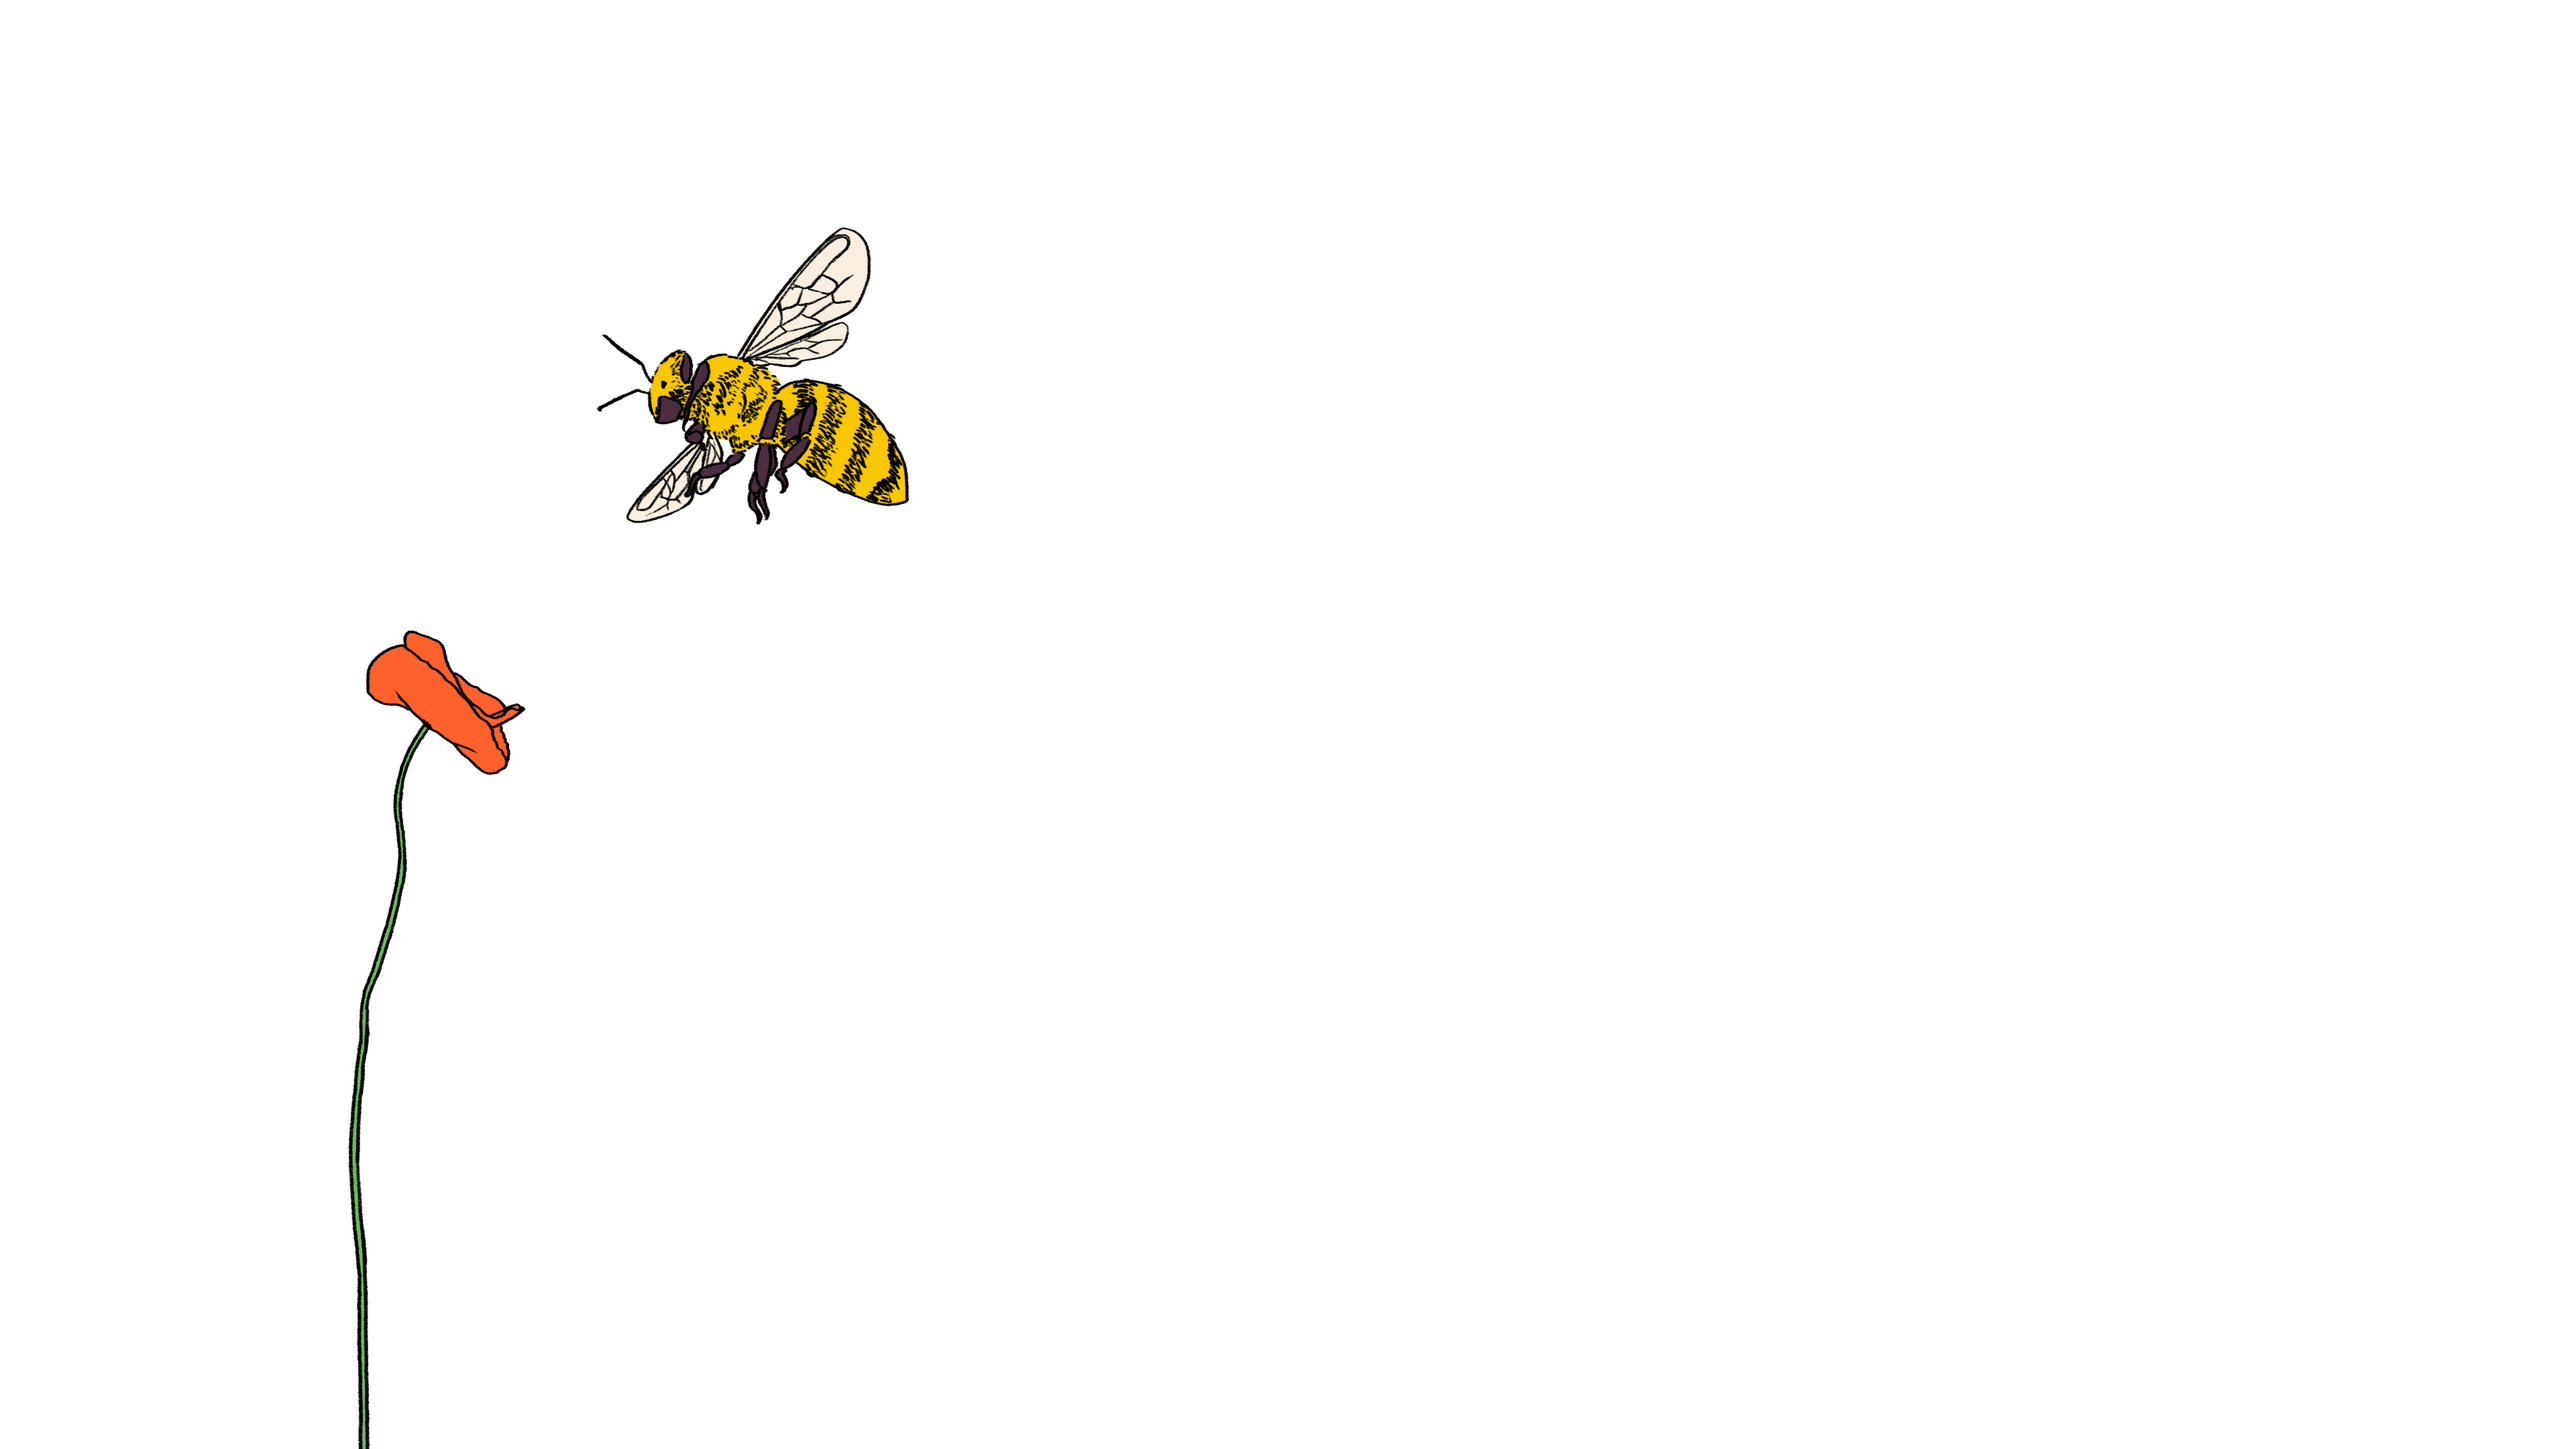
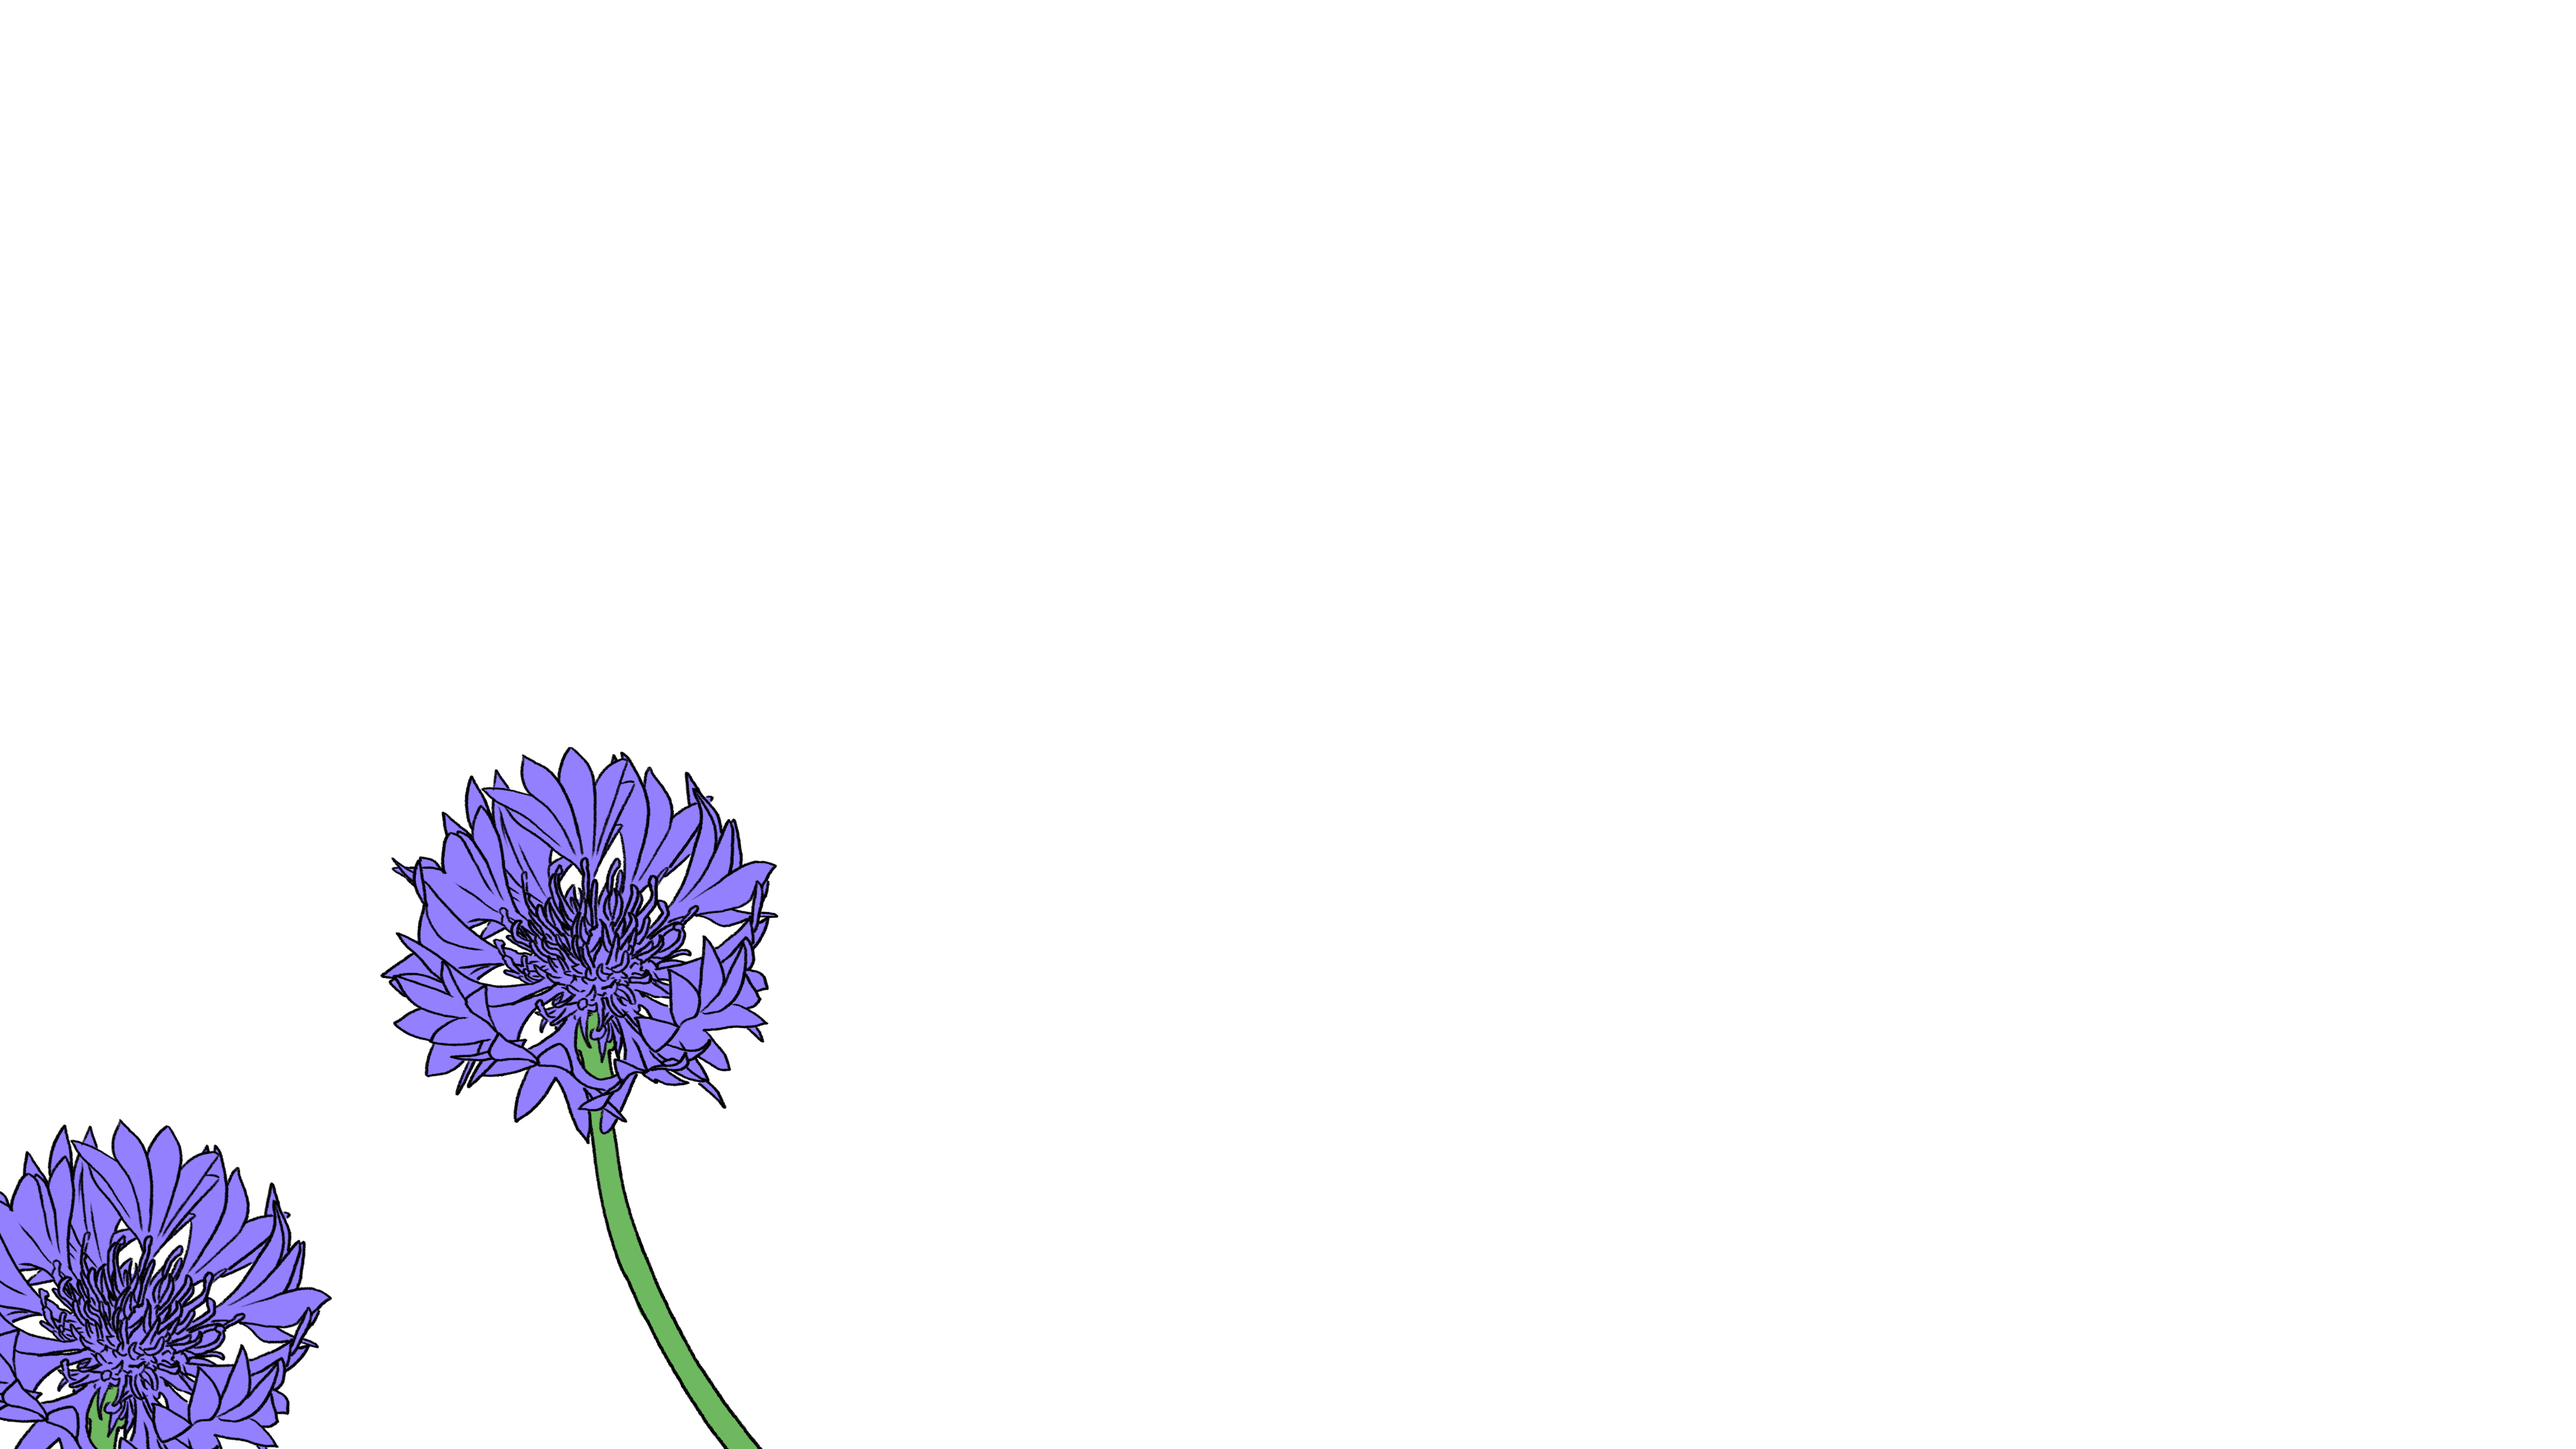
parralax effect detailpage

Changed region(s): [[0.0, 0.4343, 0.3125, 1.0], [0.2188, 0.1551, 0.375, 0.3722]]

diff --git a/src/script.js b/src/script.js
@@ -19,58 +19,125 @@ const scene = new THREE.Scene()
 // Objects
 
 // Materials
+const baseSizeWidth = 10;
+const baseSizeHeight = 5;
+
+const swtichDistance = number => {
+    let multiply;
+    switch (number) {
+        case 0:
+            multiply = 99;
+            break;
+        case 1:
+            multiply = 74;
+            break;
+        case 2:
+            multiply = 34;
+            break;
+        case 3:
+            multiply = 18;
+            break;
+        case 4:
+            multiply = 6;
+            break;
+        default:
+            break;
+    }
+    return multiply;
+}
+
+const swtichDistanceTree = number => {
+    let multiply;
+    switch (number) {
+        case 0:
+            multiply = 99;
+            break;
+        case 1:
+            multiply = 74;
+            break;
+        case 2:
+            multiply = 34;
+            break;
+        case 3:
+            multiply = 20;
+            break;
+        case 4:
+            multiply = 14;
+            break;
+        case 5:
+            multiply = 8;
+            break;
+        default:
+            break;
+    }
+    return multiply;
+}
+
+const backgroundTexture = new THREE.MeshBasicMaterial({
+    map: textureLoader.load(`/detailpage/clouds.png`),
+    transparent: true
+});
+const shapeBackground = new THREE.PlaneGeometry(200, 120);
+const meshBackground = new THREE.Mesh(shapeBackground, backgroundTexture);
+meshBackground.position.z = -60;
+meshBackground.position.y = 5;
+scene.add(meshBackground);
+
+const beekeeperTexture = new THREE.MeshBasicMaterial({
+    map: textureLoader.load(`/detailpage/beekeper.png`),
+    transparent: true
+});
+const shapeBeekeeper = new THREE.PlaneGeometry(10, 5);
+const meshBeekeeper = new THREE.Mesh(shapeBeekeeper, beekeeperTexture);
+meshBeekeeper.position.z = 2;
+meshBeekeeper.position.y = 0;
+scene.add(meshBeekeeper);
+
 
 const treeTextures = [];
-for (let i = 1; i < 7; i++) {
+for (let i = 0; i < 6; i++) {
     treeTextures[i]= new THREE.MeshBasicMaterial({
         map: textureLoader.load(`/detailpage/tree_${i}.png`),
         transparent: true
     });
+    let shapeTree;
+    let bruh = 24;
+    let bruh2 = 12;
+
+    if (i === 0) {
+        console.log(`dit werkt`);
+        shapeTree = new THREE.PlaneGeometry(bruh * (parseFloat(`1.${swtichDistanceTree(i)*1}`)), bruh2 * (parseFloat(`1.${swtichDistanceTree(i)*1}`)));
+    } else {
+        shapeTree = new THREE.PlaneGeometry(bruh * (parseFloat(`1.${swtichDistanceTree(i)*i}`)), bruh2 * (parseFloat(`1.${swtichDistanceTree(i)*i}`)));
+    }
+    console.log();
+    const meshTree = new THREE.Mesh(shapeTree, treeTextures[i]);
+    meshTree.position.y = window.innerWidth/9000;
+    meshTree.position.x = (window.innerWidth/9000);    
+    meshTree.position.z = -10+ i;
+    // parseFloat(`0.${i}`)
+    scene.add(meshTree);
 }
 
-console.log(treeTextures);
-
-const material = new THREE.MeshBasicMaterial({
-    map: textureLoader.load('/detailpagetest/background.png'),
-    transparent: true,
-    side: THREE.DoubleSide
-});
-
-const materialTwo = new THREE.MeshBasicMaterial({
-    map: textureLoader.load('/detailpagetest/bij.png'),
-    transparent: true,
-    side: THREE.DoubleSide
-});
-
-const materialImker = new THREE.MeshBasicMaterial({
-    map: textureLoader.load('/detailpagetest/imker.png'),
-    transparent: true,
-    side: THREE.DoubleSide
-});
-
-const materialMadeliefje = new THREE.MeshBasicMaterial({
-    map: textureLoader.load('/detailpagetest/madeliefje.png'),
-    transparent: true,
-    side: THREE.DoubleSide
-});
-
-const materialPaardenbloem = new THREE.MeshBasicMaterial({
-    map: textureLoader.load('/detailpagetest/paardenbloem.png'),
-    transparent: true,
-    side: THREE.DoubleSide
-});
-
-const materialPaardenbloemjong = new THREE.MeshBasicMaterial({
-    map: textureLoader.load('/detailpagetest/paardenbloemjong.png'),
-    transparent: true,
-    side: THREE.DoubleSide
-});
-
-const materialTree = new THREE.MeshBasicMaterial({
-    map: textureLoader.load('/detailpagetest/tree.png'),
-    transparent: true,
-    side: THREE.DoubleSide
-});
+const flowerTextures = [];
+for (let i = 0; i < 6; i++) {
+    flowerTextures[i]= new THREE.MeshBasicMaterial({
+        map: textureLoader.load(`/detailpage/flower_${i}.png`),
+        transparent: true
+    });
+    let shapeFlower;
+    if (i === 5) {
+        shapeFlower = new THREE.PlaneGeometry(baseSizeWidth, baseSizeHeight);
+    } else if (i === 0) {
+        shapeFlower = new THREE.PlaneGeometry(baseSizeWidth * (parseFloat(`1.${swtichDistance(i)*1}`)), baseSizeHeight * (parseFloat(`1.${swtichDistance(i)*1}`)));
+    } else {
+        shapeFlower = new THREE.PlaneGeometry(baseSizeWidth * (parseFloat(`1.${swtichDistance(i)*i}`)), baseSizeHeight * (parseFloat(`1.${swtichDistance(i)*i}`)));
+    }
+    const meshFlower = new THREE.Mesh(shapeFlower, flowerTextures[i]);
+    meshFlower.position.z = -3+ i;
+    meshFlower.position.x =-(window.innerWidth/3000);
+    scene.add(meshFlower);
+}
 
 const materialCloud = new THREE.MeshBasicMaterial({
     map: textureLoader.load('/cloud.jpg'),
@@ -78,66 +145,16 @@ const materialCloud = new THREE.MeshBasicMaterial({
     side: THREE.DoubleSide
 });
 
-const wait = async() => {
-    console.log(materialTree.map.repeat.set(1,1));  
-    console.log(materialImker.map.repeat.set(1,1));
-}
-wait();
-
 const material1 = new THREE.MeshBasicMaterial( {
     color: 0xb2dcff,
     side: THREE.DoubleSide
 });
-
-// Mesh
-// const shapeFlat = new THREE.PlaneGeometry(100, 100);
-// shapeFlat.rotateX(-Math.PI * 0.5);
-// const meshPlane = new THREE.Mesh(shapeFlat, material1);
-
-// meshPlane.overdraw = true;
-// meshPlane.position.y = -3;
-//scene.add(meshPlane);
 
 const shape = new THREE.PlaneGeometry(500, 500);
 const meshTexture = new THREE.Mesh(shape, material1);
 meshTexture.position.y = -.5;
 meshTexture.position.z = -60;
 scene.add(meshTexture);
-
-const shapeTwo = new THREE.PlaneGeometry(10, 5);
-let meshTextureTwo = new THREE.Mesh(shapeTwo, materialTwo);
-meshTextureTwo.position.y = .3;
-meshTextureTwo.position.z = 2;
-scene.add(meshTextureTwo);
-
-console.log(window.innerHeight, window.innerWidth);
-const shapeTree = new THREE.PlaneGeometry(160,80);
-let meshTextureThree = new THREE.Mesh(shapeTree, materialTree);
-meshTextureThree.position.z = -50;
-meshTextureThree.position.y = 5;
-scene.add(meshTextureThree);
-
-const shapeImker = new THREE.PlaneGeometry(53,27);
-const meshTextureFour = new THREE.Mesh(shapeImker, materialImker);
-meshTextureFour.position.z = -15;
-meshTextureFour.position.y = -2.5;
-meshTextureFour.position.x = 1.5;
-scene.add(meshTextureFour);
-
-const meshTextureFive = new THREE.Mesh(shapeTwo, materialPaardenbloem);
-meshTextureFive.position.z = 1.4;
-meshTextureFive.position.y = -.4;
-scene.add(meshTextureFive);
-
-const meshTextureSix = new THREE.Mesh(shapeTwo, materialPaardenbloemjong);
-meshTextureSix.position.z = 1.6;
-meshTextureSix.position.y = -.4;
-scene.add(meshTextureSix);
-
-const meshTextureSeven = new THREE.Mesh(shapeTwo, materialMadeliefje);
-meshTextureSeven.position.z = 1.8;
-meshTextureSeven.position.y = -.4;
-scene.add(meshTextureSeven);
 
 materialCloud.map.repeat.set(1,1)
 const shapeCloud = new THREE.PlaneGeometry(20,10);
@@ -217,8 +234,6 @@ const handleMoveDocument = e => {
 }
 
 const sceneTwo = () => {
-    //scene.remove(meshTextureThree);
-    //scene.remove(meshTextureSeven);
     new TWEEN.Tween(camera.position)
     .to(
       {
@@ -248,7 +263,7 @@ const handleClickDocument = e => {
 }
 
 document.addEventListener(`mousemove`, handleMoveDocument);
-document.addEventListener(`click`, handleClickDocument);
+//document.addEventListener(`click`, handleClickDocument);
 let mouseX = 0;
 let mouseY = 0;
 
@@ -274,6 +289,8 @@ const tick = () =>
     if (conditionMoveCamera) {
         camera.position.x = -.005 * -(targetX -  camera.position.x);
         camera.position.y = -.005 * -(targetY -  camera.position.y);
+        meshBackground.position.x = .03 * (targetX -  meshBackground.position.x);
+        meshBackground.position.y = .03 * (targetY -  meshBackground.position.y);
     }
 
     // Update Orbital Controls
